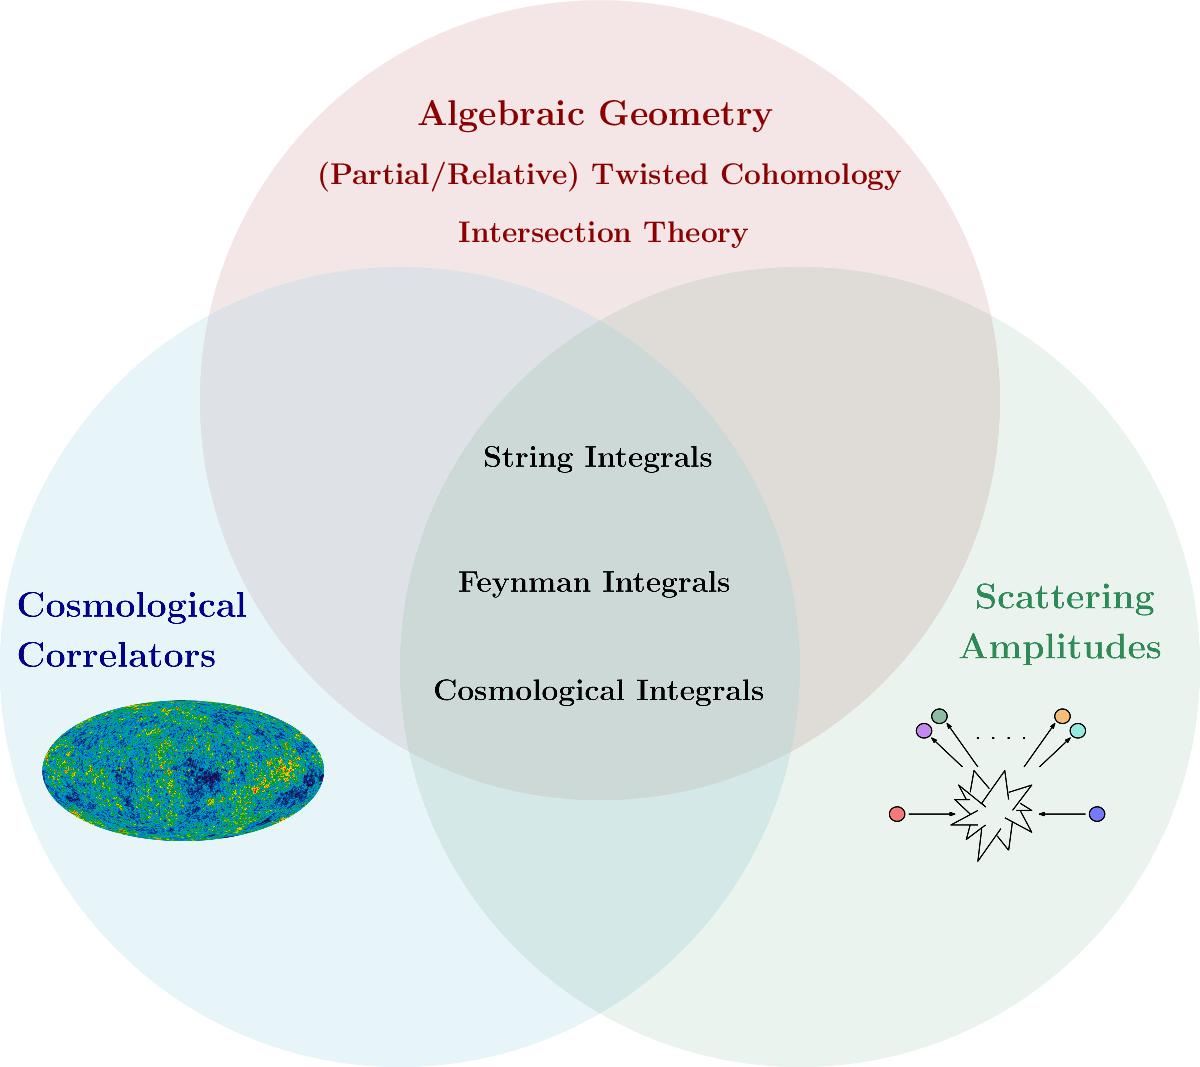
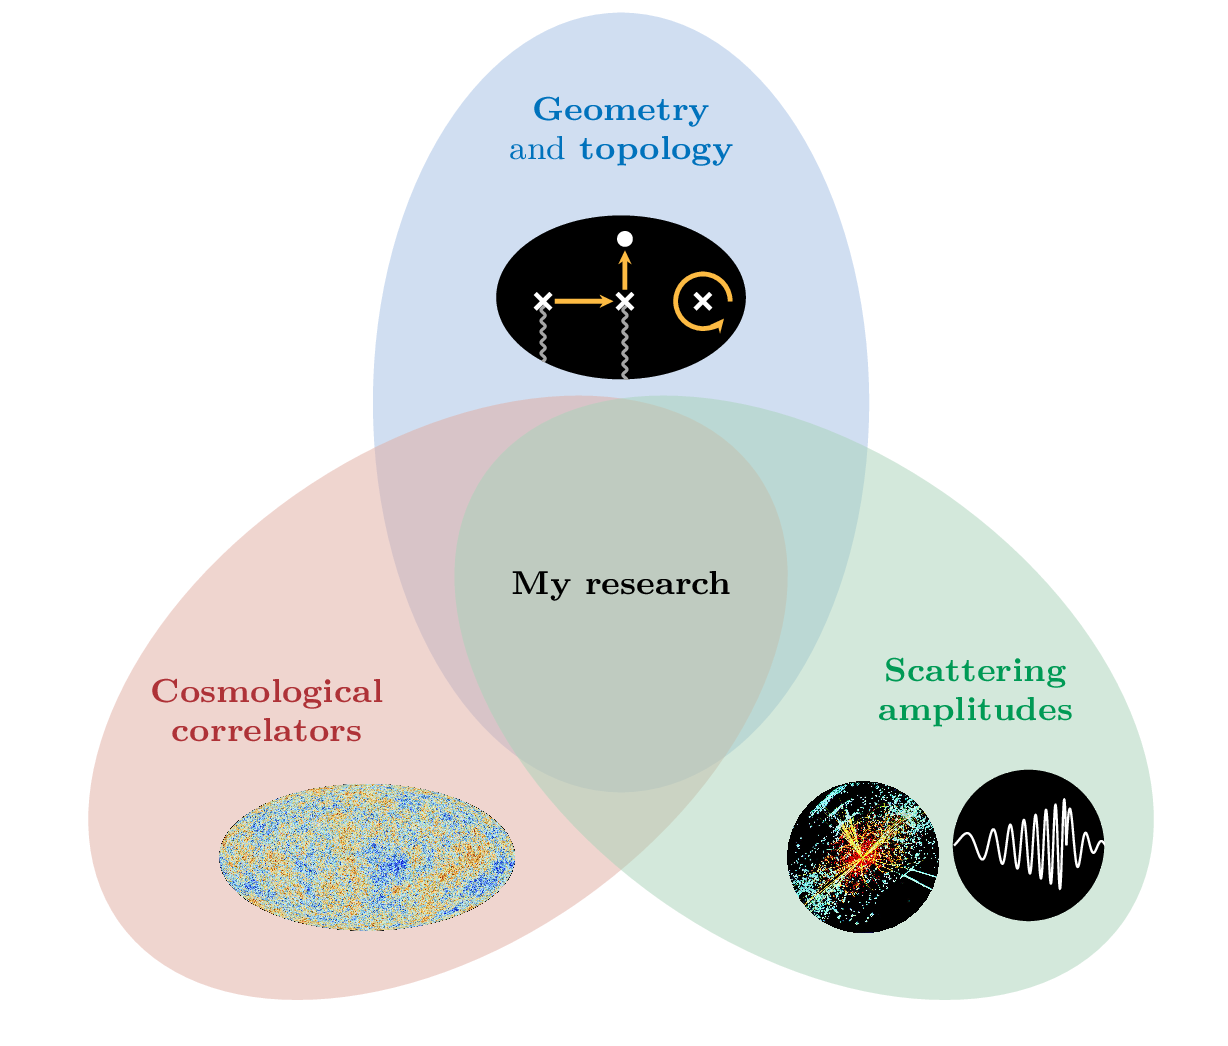
Research page: Oxford Venn diagram, new overview, wider layout

diff --git a/research.html b/research.html
@@ -20,18 +20,23 @@
   </header>
   <main>
     <h1>Research</h1>
-    <div class="row">
-      <div class="text">
-        <p>Scattering amplitudes and cosmological correlators are built from integrals, and
-        those integrals are periods: pairings between twisted cycles and twisted differential
-        forms. I study them through <em>relative twisted (co)homology</em>, a framework in
-        which the physical, dimensionally regulated integrals are treated directly and their
-        differential equations, bases and analytic structure follow from geometry.</p>
-      </div>
-      <figure class="pic">
-        <a href="img/venn.png"><img src="img/venn.png" alt="Venn diagram: algebraic geometry, cosmological correlators and scattering amplitudes, overlapping in string, Feynman and cosmological integrals"></a>
+    <div class="intro-wrap">
+      <figure class="pic big">
+        <a href="img/venn.png"><img src="img/venn.png" alt="Venn diagram: geometry and topology, cosmological correlators and scattering amplitudes, with my research in the overlap"></a>
       </figure>
+        <p>My work lies at the intersection of geometry, particle physics and cosmology.
+        I build mathematical formalisms tailored to particle physics, to reveal the hidden simplicity of QFT observables and to create efficient algorithms for computing them.
+        I do this by investigating scattering amplitudes and cosmological correlators&mdash;which connect theory to experiment, from particle collisions at the LHC to inflation and gravitational waves&mdash;through the lenses of algebraic, complex and positive geometry.</p>
+        <p>My main tool is <em>twisted (co)homology</em>, which I helped bring into physics (<a href="https://arxiv.org/abs/1910.11852">1910.11852</a>), together with its <em>partial/relative</em> extension, which I introduced (<a href="https://arxiv.org/abs/2104.06898">2104.06898</a>, <a href="https://arxiv.org/abs/2112.00055">2112.00055</a>).
+        My work removes the spurious regulators needed to force QFT integrals&mdash;Feynman integrals, cosmological correlators and string integrals alike&mdash;into standard mathematical frameworks, which would otherwise increase the complexity of computations and obscure physical structure in intermediate steps.
+        The same (co)homology underpins Feynman integrals, cosmological correlators in Friedmann&ndash;Robertson&ndash;Walker (FRW) spacetimes, string amplitudes, the double copy, energy correlators and more.</p>
     </div>
+    <p>Three questions drive my research:</p>
+    <ul class="questions">
+      <li>What is the analytic structure of QFT observables&mdash;the basis, the relations and the singularities of Feynman integrals&mdash;and can it be read off from geometry before anything is computed?</li>
+      <li>What organizes QFT in cosmology once the symmetries of de Sitter space are gone? For toy models of inflation, a handful of graphical rules&mdash;known as kinematic flow&mdash;provides the first glimpse of an answer.</li>
+      <li>What functions do these observables evaluate to, beyond the polylogarithms of today&rsquo;s predictions? The elliptic, higher-genus and Calabi&ndash;Yau functions that collider and gravitational-wave precision now demands are the first cases.</li>
+    </ul>
 
     <h2>Feynman integrals from twisted (co)homology</h2>
     <div class="row flip">
@@ -58,7 +63,7 @@
         differential equations factorize loop by loop, and constructed canonical differential
         equations for the five-mass kite, the most general two-loop self-energy. The same tools
         give a double copy for Riemann&ndash;Wirtinger integrals, which share their function space
-        with string amplitudes, at genus one and at any genus.</p>
+        with string amplitudes, at any genus.</p>
         <p class="relevant">Papers: <a href="https://arxiv.org/abs/2210.09898">2210.09898</a> · <a href="https://arxiv.org/abs/2401.14307">2401.14307</a> · <a href="https://arxiv.org/abs/2312.02148">2312.02148</a> · <a href="https://arxiv.org/abs/2509.01598">2509.01598</a></p>
       </div>
       <figure class="pic">

diff --git a/style.css b/style.css
@@ -6,7 +6,7 @@
   --rule: #e6e8eb;
   --accent: #1a5fb4;       /* close to RoyalBlue in the LaTeX CV */
   --accent-soft: #e8f0fa;
-  --maxw: 44rem;
+  --maxw: 50rem;
 }
 
 * { box-sizing: border-box; }
@@ -146,13 +146,22 @@ figure.pic img {
   background: #fff;
   box-sizing: border-box;
 }
+/* intro: the Venn diagram floats right and the text wraps around it */
+.intro-wrap::after { content: ""; display: block; clear: both; }
+.intro-wrap p:first-of-type { margin-top: 0; }
+figure.pic.big { float: right; width: 420px; margin: .2rem 0 .8rem 1.75rem; }
+figure.pic.big img { width: 100%; height: auto; }
 figcaption { color: var(--muted); font-size: .78rem; line-height: 1.4; margin-top: .45rem; }
 .relevant { font-size: .9rem; color: var(--muted); }
 @media (max-width: 640px) {
   .row, .row.flip { flex-direction: column; }
   figure.pic { flex-basis: auto; width: 100%; }
   figure.pic img { width: 100%; height: 240px; }
+  figure.pic.big { float: none; width: 100%; margin: 0 0 1rem; }
 }
+
+ul.questions { margin: -.4rem 0 1rem; padding-left: 1.3rem; }
+ul.questions li { margin-bottom: .45rem; }
 
 /* Recent papers on the home page */
 ol.recent { list-style: none; padding: 0; margin: 0; }
